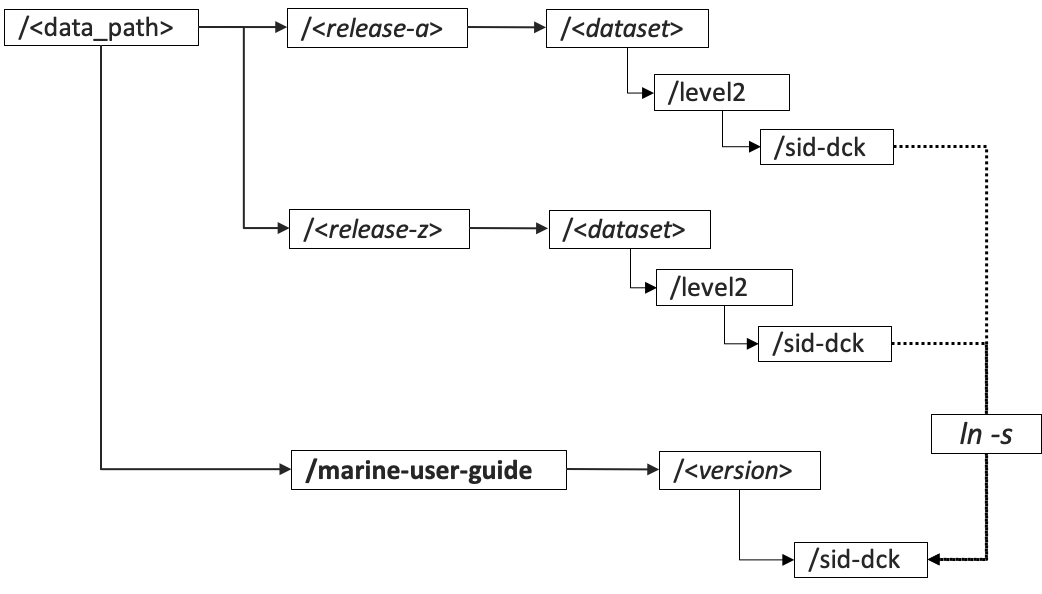
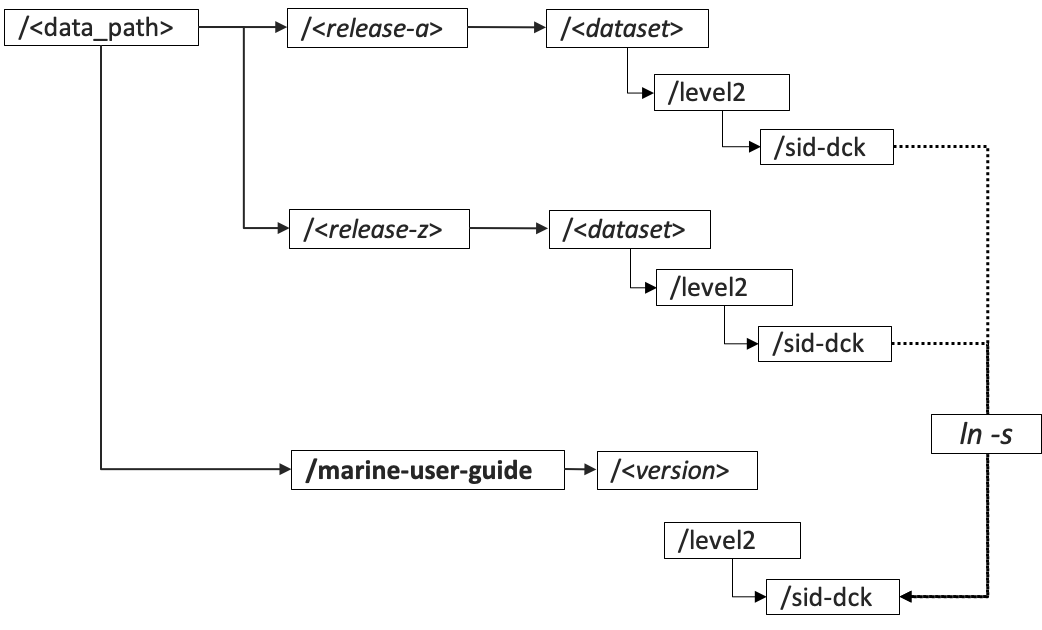
Added info

diff --git a/docs/source/index.rst b/docs/source/index.rst
@@ -112,8 +112,12 @@ Edit file marine-user-guide/setpaths.sh and modify as needed the following field
 Marine User Guide
 =================
 
-Initialize a new user guide
----------------------------
+Every C3S Marine User Guide version includes a series of figures that describe
+the marine in situ data holdings in the CDS. The following sections explain how
+these figures are created for every new version of the Marine User Guide.
+
+Initializing a new user guide
+-----------------------------
 
 Every new version of the Marine User Guide (MUG) needs to be initialised in the
 tools' data directory ( :ref:`file_links`). These steps initialize a new version:
@@ -129,15 +133,34 @@ included in the new version.
 2. Use the sid-dck keys of the *mug_config* file to create a simple ascii file \
 with the full list of source-deck IDs of the release merge (*mug_list*).
 
-3. Create a subdirectory for the version and populate it with a view of the
-merged data releases: rather than copying all the files, this is done by
-linking the corresponding files from the releases' directories to the
-marine-user-guide data directory.
+3. Create the directory tree for the version in the  in the marine-user-guide \
+data directory.
 
   .. code-block:: bash
 
-    ./marine-user-guide/init_version/merge_release_data_launcher.sh version mug_config mug_list
+    python /marine-user-guide/init_version/create_version_dir_tree.py mug_path version mug_config
 
+  where:
+
+  * mug_path: full marine-user-guide data directory path
+  * version: tag to use for Marine User Guide version
+  * mug_config: path to *mug_config* file
+
+4. Populate it with a view of the merged data releases: rather than copying all \
+the files, this is done by linking the corresponding files from the releases' \
+directories to the marine-user-guide data directory. Data linked is the level2 \
+data files and level1a and level1c quicklook json files.
+
+  .. code-block:: bash
+
+    ./marine-user-guide/init_version/merge_release_data.py data_path mug_path version mug_config
+
+  where:
+
+  * data_path: the path where the data release directories are
+  * mug_path: full marine-user-guide data directory path
+  * version: tag to use for Marine User Guide version
+  * mug_config: path to *mug_config* file
 
   Check that the copies really reflect the merge of the releases. \
   Edit the following script to add the corresponding paths and run. If any does \
@@ -154,29 +177,36 @@ marine-user-guide data directory.
   :width: 300
   :align: center
 
-  Marine User Guide data directory and its relation to the individual data releases' directories.
+  Marine User Guide data directory and its relation to the individual data \
+  releases' directories.
 
 
 
 Data summaries
 --------------
 
-The data summaries are monthly aggregations of all the source-deck ID partitions
-in the data.
+The data summaries are monthly aggregations over all the source-deck ID partitions
+in the data. These aggregations are on the data counts and observation values
+and on some relevant quality indicators and are the basis to then create the
+time series plots and maps included in the MUG.
 
 Monthly grids
 ^^^^^^^^^^^^^
 
-These are monthly aggregations in a lat-lon grid which are stored in nc files:
+Aggregations in a monthly lat-lon grids. The CDM table determines what
+aggregations are aplied:
 
-  * header table: number of reports per grid cell per month
-  * observations tables: number of observations and observed_value mean per grid \
+  * header table: number of reports per grid cell per month.
+  * observations tables: number of observations and mean observed_value per grid \
     cell per month.
 
-All the aggregations are configured in a common configuration file, \
-monthly_grids.json (:ref:`mon_grids_config`). The current configuration excludes
-reports not passing all the quality checks, but this can be configured in the
-configuration file.
+Each aggregation is stored in an individual netcdf file.
+
+All the aggregations are configured in a common configuration file,
+(:ref:`mon_grids_um`). The current configuration for the MUG excludes reports
+not passing all the quality checks. The same tool can be used to produce
+data summaries with different filter criteria, but modifying the filter values
+in the configuration file.
 
 A launcher bash script configures the LSF job for each table and logs to \
 /log/monthly_grids/*table*.log in the data directory.
@@ -186,15 +216,15 @@ A launcher bash script configures the LSF job for each table and logs to \
    ./marine-user-guide/data_summaries/monthly_grids_launcher.sh version monthly_grids.json
 
 
-Monthly time series of selected quality indicators
-^^^^^^^^^^^^^^^^^^^^^^^^^^^^^^^^^^^^^^^^^^^^^^^^^^
+Selected quality indicators time series
+^^^^^^^^^^^^^^^^^^^^^^^^^^^^^^^^^^^^^^^
 
 Monthly summaries of categorical counts of quality indicators in the header table
 aggregated over all the source-deck IDs. These are additionally, split in counts by main
 platform types (ships and buoys) and include the total number of reports. They
 are stored in ascii pipe separated files.
 
-The configuration file, qi_counts_ts.json (:ref:`qi_counts_config`), includes \
+The configuration file, qi_counts_ts.json (:ref:`qi_counts_um`), includes \
 very limited parameterization, with the platform type segregation pending to be \
 parameterized.
 
@@ -527,18 +557,18 @@ Marine user guide data configuration file
 
 
 
-.. _mon_grids_config:
+.. _mon_grids_um:
 
-monthly_grids configuration
----------------------------
+Monthly grids
+-------------
 
 .. literalinclude:: ../config_files/monthly_grids.json
 
 
-.. _qi_counts_config:
+.. _qi_counts_um:
 
-qi_counts configuration
------------------------
+Quality indicators time series
+------------------------------
 
 .. literalinclude:: ../config_files/qi_counts_ts.json
 
